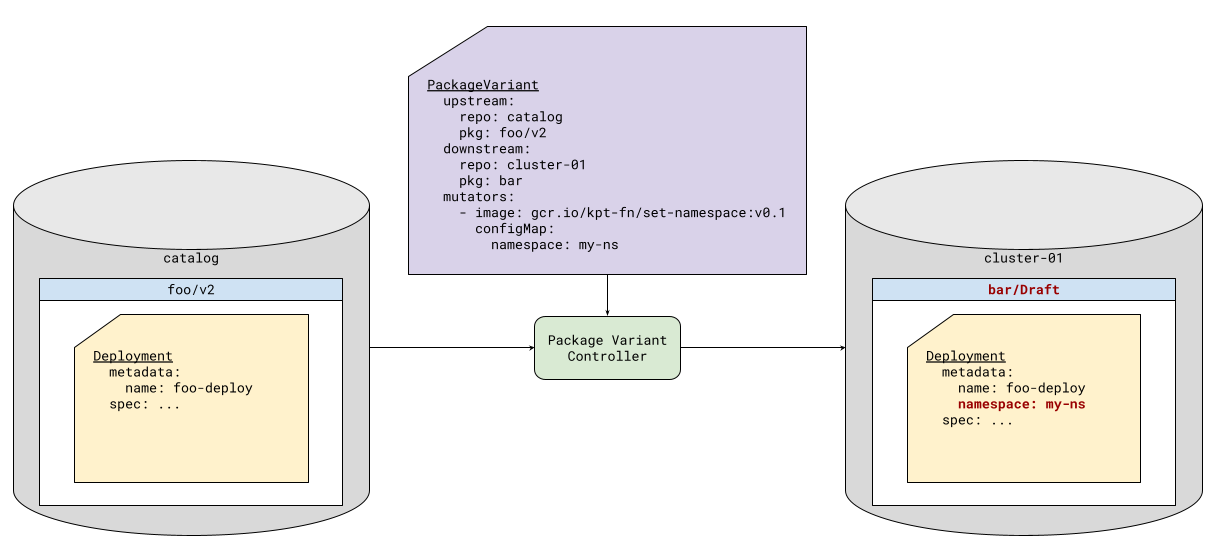
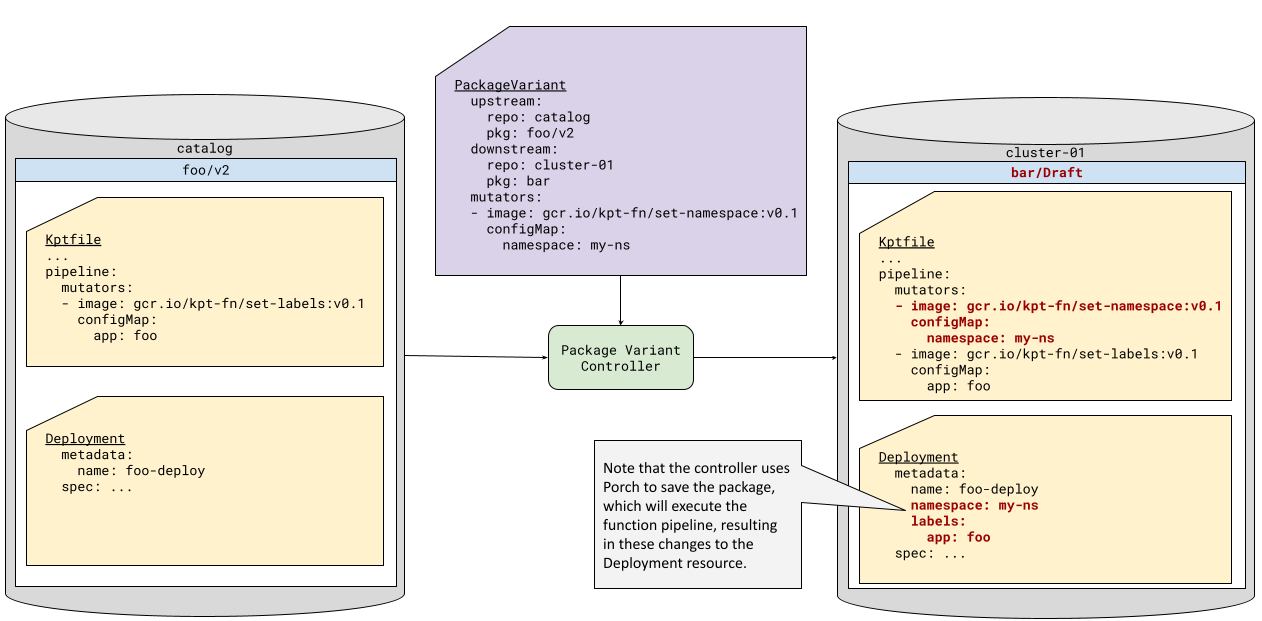
Add PVS figure, update KRM function pipeline

diff --git a/docs/design-docs/08-package-variant.md b/docs/design-docs/08-package-variant.md
@@ -1,6 +1,7 @@
 # Package Variant Controller
 
 * Author(s): @johnbelamaric, @natasha41575
+* Status: Work-in-Progress
 * Approver: @mortent
 
 ## Why
@@ -156,35 +157,39 @@ schema, rather than simple key/value pairs.
 ### KRM Function Pipeline[^notimplemented]
 In the manual workflow, one of the ways we edit packages is by running KRM
 functions imperatively. PackageVariant offers a similar capability, by
-allowing the user to list a KRM function pipeline similar to the `Kptfile`
-mutators pipeline. By default, these KRM functions are not added to the
-`Kptfile` pipeline, but there is an option to do so.
+allowing the user to add functions to the beginning of the downstream package
+`Kptfile` mutators pipeline. These functions will then execute before the
+functions present in the upstream pipeline. It is not exactly the same as
+running functions imperatively, because they will also be run in every
+subsequent execution of the downstream package function pipeline. But it can
+achieve the same goals.
 
-Creating a namespace and/or setting the namespace for a particular package is a
-very common operation. However, since namespace provisioning in a cluster is a
-privileged operation, the deployer of a package may not have the authority to
-provision a namespace. For this reason, upstream packages should not directly
-include `Namespace` resources if they want to be truly reusable.
+For example, consider an upstream package that includes a Namespace resource.
+In many organizations, the deployer of the workload may not have the permissions
+to provision cluster-scoped resources like Namespaces. This means that they
+would not be able to use this upstream package without removing the Namespace
+resource (assuming that they only have access to a pipeline that deploys with
+constrained permissions). By adding a function that removes Namespace resources,
+and a call to `set-namespace`, they can take advantage of the upstream package.
 
-The KRM function pipeline provides an easy mechanism for the deployer to set the
-namespace, or even to create one if their downstream package application
+Similarly, the KRM function pipeline feature provides an easy mechanism for the
+deployer to create and set the namespace if their downstream package application
 pipeline allows it, as seen in *Figure 3*.[^setns]
 
 ![Figure 3: KRM Function](packagevariant-function.png)
 
 ### Configuration Injection[^pdc]
-Adding values to the package context, or executing functions with their
-configuration listed in the PackageVariant, works for values that are under
-control of the author of the PackageVariant resource. However, in more
-advanced use cases, we may need to specialize the package based upon other
-contextual information. This particularly comes into play when the user
-deploying the workload does not have direct control over the context in which
-it is being deployed. For example, one part of the organization may manage the
-infrastructure - that is, the cluster in which we are deploying the workload -
-and another part the actual workload. We would like to be able to pull in inputs
-specified by the infrastructure team automatically, based the cluster to which
-we are deploying the workload, or perhaps the region in which that cluster is
-deployed.
+Adding values to the package context or functions to the pipeline works
+for configuration that is under the control of the creator of the PackageVariant
+resource. However, in more advanced use cases, we may need to specialize the
+package based upon other contextual information. This particularly comes into
+play when the user deploying the workload does not have direct control over the
+context in which it is being deployed. For example, one part of the organization
+may manage the infrastructure - that is, the cluster in which we are deploying
+the workload - and another part the actual workload. We would like to be able to
+pull in inputs specified by the infrastructure team automatically, based the
+cluster to which we are deploying the workload, or perhaps the region in which
+that cluster is deployed.
 
 To facilitate this, the package variant controller can "inject" configuration
 directly into the package. This means it will use information specific to this
@@ -296,6 +301,11 @@ Three types of targeting are supported:
   names from those objects
 - An arbitrary object selector, along with ways to generate repository and
   package names from those objects
+
+*Figure 5* shows an example of creating PackageVariant resources based upon the
+explicity list of repository and package names.
+
+![Figure 5: List of Targets](packagevariantset-target-package.png)
 
 Rules for generating PackageVariant resources can also access the fields of
 the target objects, allowing the package context values, injection selectors,
@@ -557,39 +567,40 @@ in-package resource GVK, and so making the selector GVK optional is more
 convenient. This allows a single injector to apply to multiple injection points
 with different GVKs.
 
-#### Order of Mutation During Creation
-Note that the KRM function pipeline defined in the Kptfile runs every time Porch
-saves the package. The package variant controller will save the Draft package
-after performing all the requested mutations. Thus, the Draft package will
-undergo mutations in this order during creation:
+#### Order of Mutations
 
-1. Package Context Injections
-1. PackageVariant KRM Function Pipeline
-1. Config Injection
-1. Kptfile KRM Function Pipeline
+During creation, the first thing the controller does is clone the upstream
+package to create the downstream package.
 
-#### Order of Mutation During Updates
+For update, first note that changes to the downstream PackageRevision can be
+triggered for several different reasons:
 
-Updates to the downstream PackageRevision can happen for several different
-reasons:
-
-1. An injected in-cluster object is updated.
 1. The PackageVariant resource is updated, which could change any of the options
    for introducing variance, or could also change the upstream package revision
    referenced.
 1. A new revision of the upstream package has been selected due to a floating
    tag change, or due to a force retagging of the upstream.
+1. An injected in-cluster object is updated.
 
-TODO(johnbelamaric): Figure out and document how the mutation process works in
-each of these cases.
+The downstream PackageRevision may have been updated by humans or other
+automation actors since creation, so we cannot simply recreate the downstream
+PackageRevision from scratch when one of these changes happens. Instead, the
+controller must maintain the later edits by doing the equivalent of a `kpt pkg
+update`, in the case of changes to the upstream for any reason. Any other
+changes require reapplication of the PackageVariant functionality. With that
+understanding, we can see that the controller will perform mutations on the
+downstream package in this order, for both creation and update:
 
-#### Open Questions
-- Need to understand how the `kpt pkg update` process works and explain it here
-  in some detail. We also need to think about whether we want to do anything
-  special for updates when the PVS, PV, or any injected resource changes.
-- It may be necessary for the package variant controller to annotate the
-  in-package resource with a hash of the in-cluster resource to detect changes,
-  this should be discussed.
+1. Create (via Clone) or Update (via `kpt pkg update` equivalent)
+1. Package Context Injections
+1. Kptfile KRM Function Pipeline Additions/Changes
+1. Config Injection
+1. Kptfile KRM Function Pipeline Execution
+
+Since the middle three of these just edit resources (including the Kptfile) in
+the package, their ordering does not matter; they cannot affect one another.
+The execution of the KRM function pipeline depends on the others, but there are
+no direct dependencies otherwise.
 
 ### PackageVariantSet API
 
